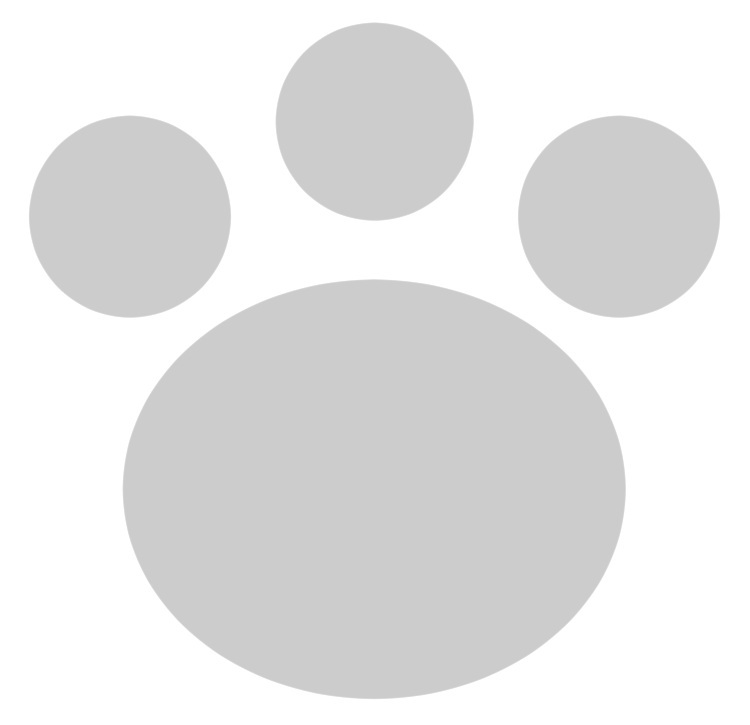
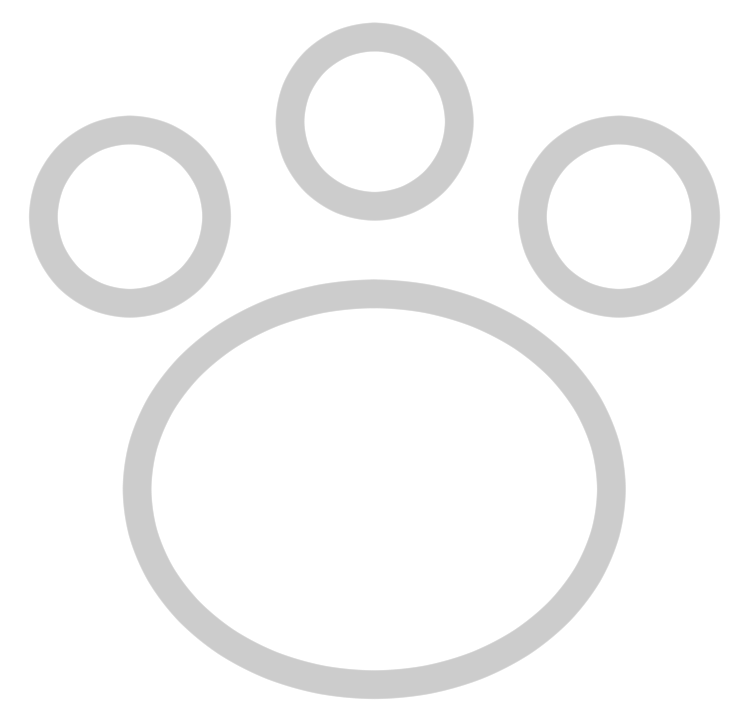
Fix: input 수정

diff --git a/src/main/resources/templates/error/custom-error.html b/src/main/resources/templates/error/custom-error.html
@@ -1,16 +1,16 @@
 <!DOCTYPE html>
 <html xmlns:th="http://www.thymeleaf.org">
-<head>
-  <meta charset="UTF-8">
-  <title>오류 페이지</title>
-  <style>
-    body {
+  <head>
+    <meta charset="UTF-8" />
+    <title>오류 페이지</title>
+    <style>
+      body {
         font-family: Arial, sans-serif;
         text-align: center;
         padding: 50px;
         background-color: #f4f4f9;
-    }
-    .error-container {
+      }
+      .error-container {
         background-color: #fff;
         border: 1px solid #ddd;
         padding: 20px;
@@ -18,39 +18,43 @@
         box-shadow: 0 2px 10px rgba(0, 0, 0, 0.1);
         width: 30rem;
         justify-self: center;
-        margin-top: 10rem
-    }
-    h1 {
+        margin-top: 10rem;
+      }
+      h1 {
         color: #e74c3c;
-    }
-    .status-code {
+      }
+      .status-code {
         font-size: 50px;
         font-weight: bold;
         color: #2c3e50;
-    }
-    .message {
+      }
+      .message {
         font-size: 18px;
         color: #7f8c8d;
-    }
-    .back-home {
+      }
+      .back-home {
         margin-top: 20px;
         text-decoration: none;
         color: #3498db;
         font-weight: bold;
-    }
-    .back-home:hover {
+      }
+      .back-home:hover {
         text-decoration: underline;
-    }
-  </style>
-</head>
-<body>
-
-<div class="error-container">
-  <h1>오류가 발생했습니다.</h1>
-  <p class="status-code" th:text="${status}">500</p>
-  <p class="message" th:text="${message}">예기치 않은 오류가 발생했습니다.</p>
-  <a class="back-home" href="/" th:href="@{/}">홈으로 돌아가기</a>
-</div>
-
-</body>
+      }
+      img {
+        margin-bottom: 20px;
+      }
+    </style>
+  </head>
+  <body>
+    <div class="error-container">
+      <img src="/images/logoFull265.png" />
+      <h1>오류가 발생했습니다.</h1>
+      <p class="status-code" th:text="${status}">500</p>
+      <p class="message" th:text="${message}">
+        예기치 않은 오류가 발생했습니다.
+      </p>
+      <a class="back-home" href="/" th:href="@{/}">홈으로 돌아가기</a>
+    </div>
+  </body>
 </html>

diff --git a/src/main/resources/templates/package/admin/package-category-edit.html b/src/main/resources/templates/package/admin/package-category-edit.html
@@ -409,6 +409,9 @@
                 }
             }
         }
+        #categoryName {
+            width: 20rem;
+        }
     </style>
 </head>
 